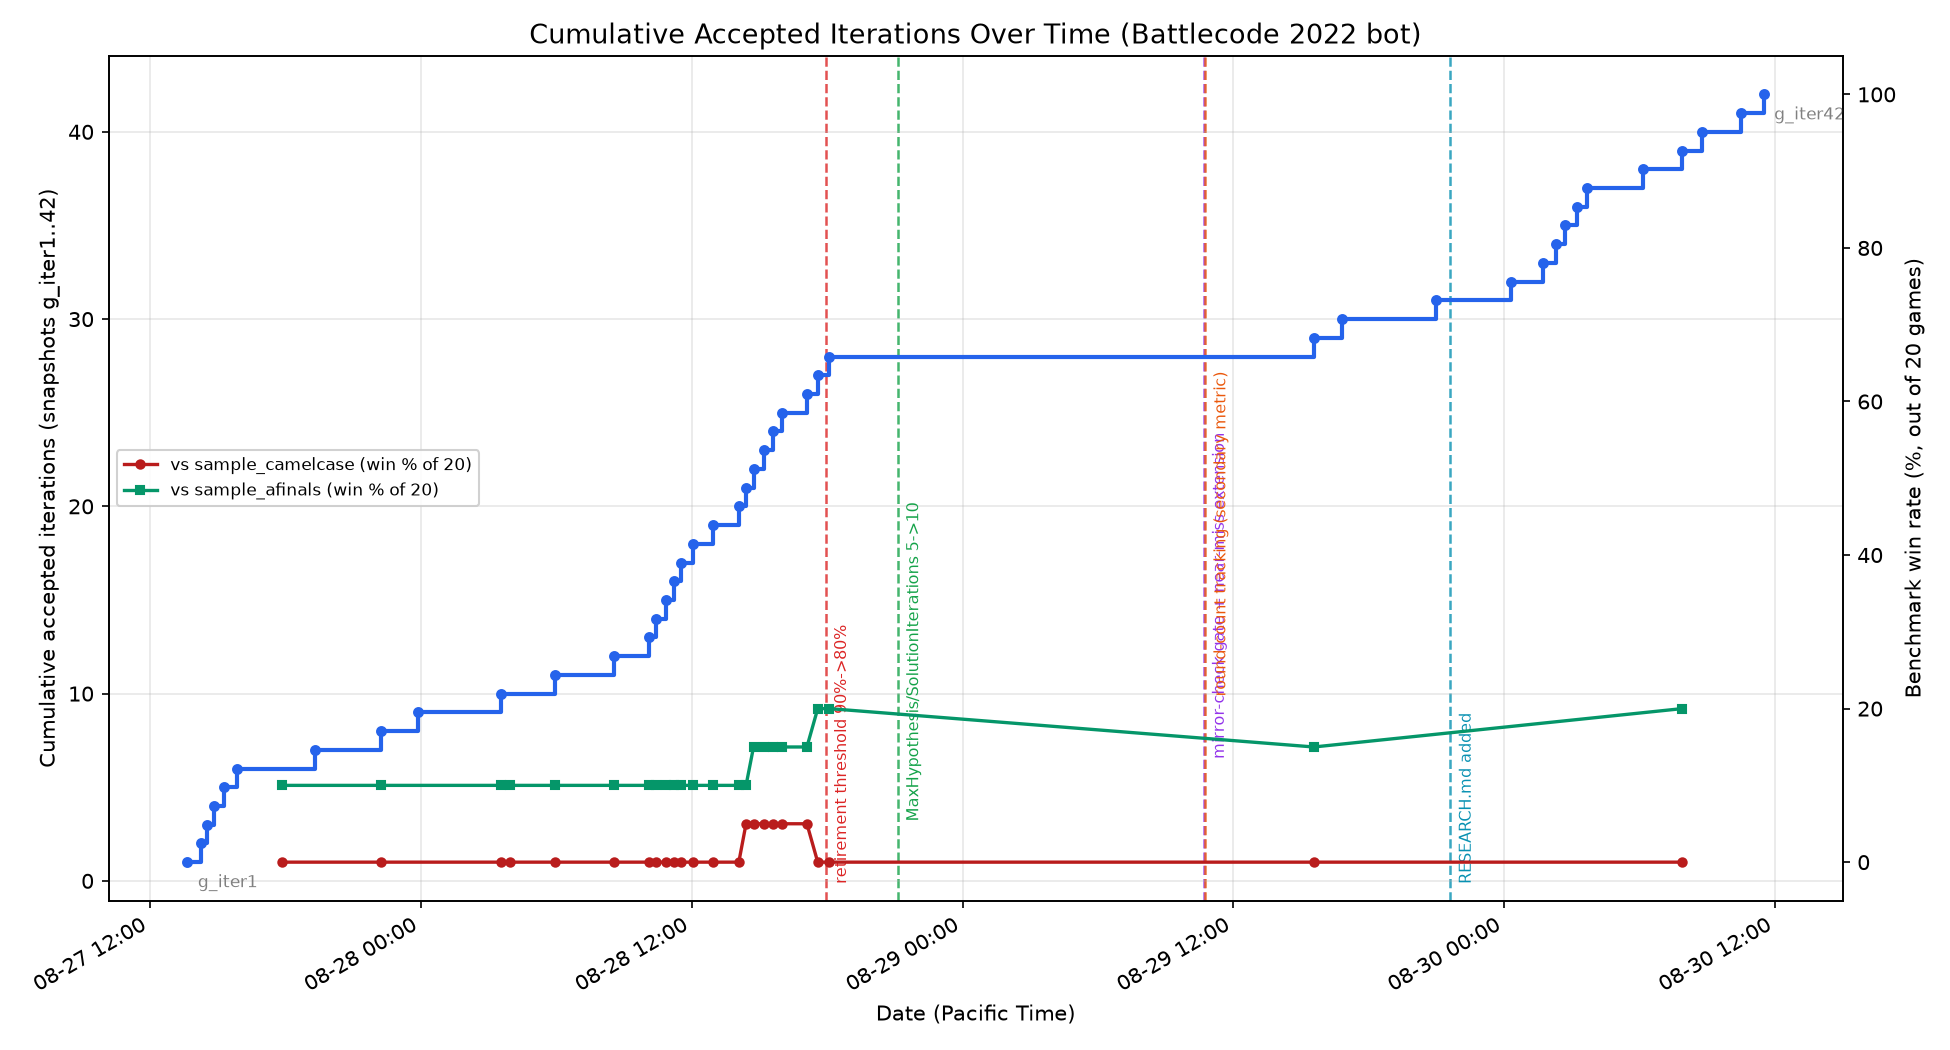
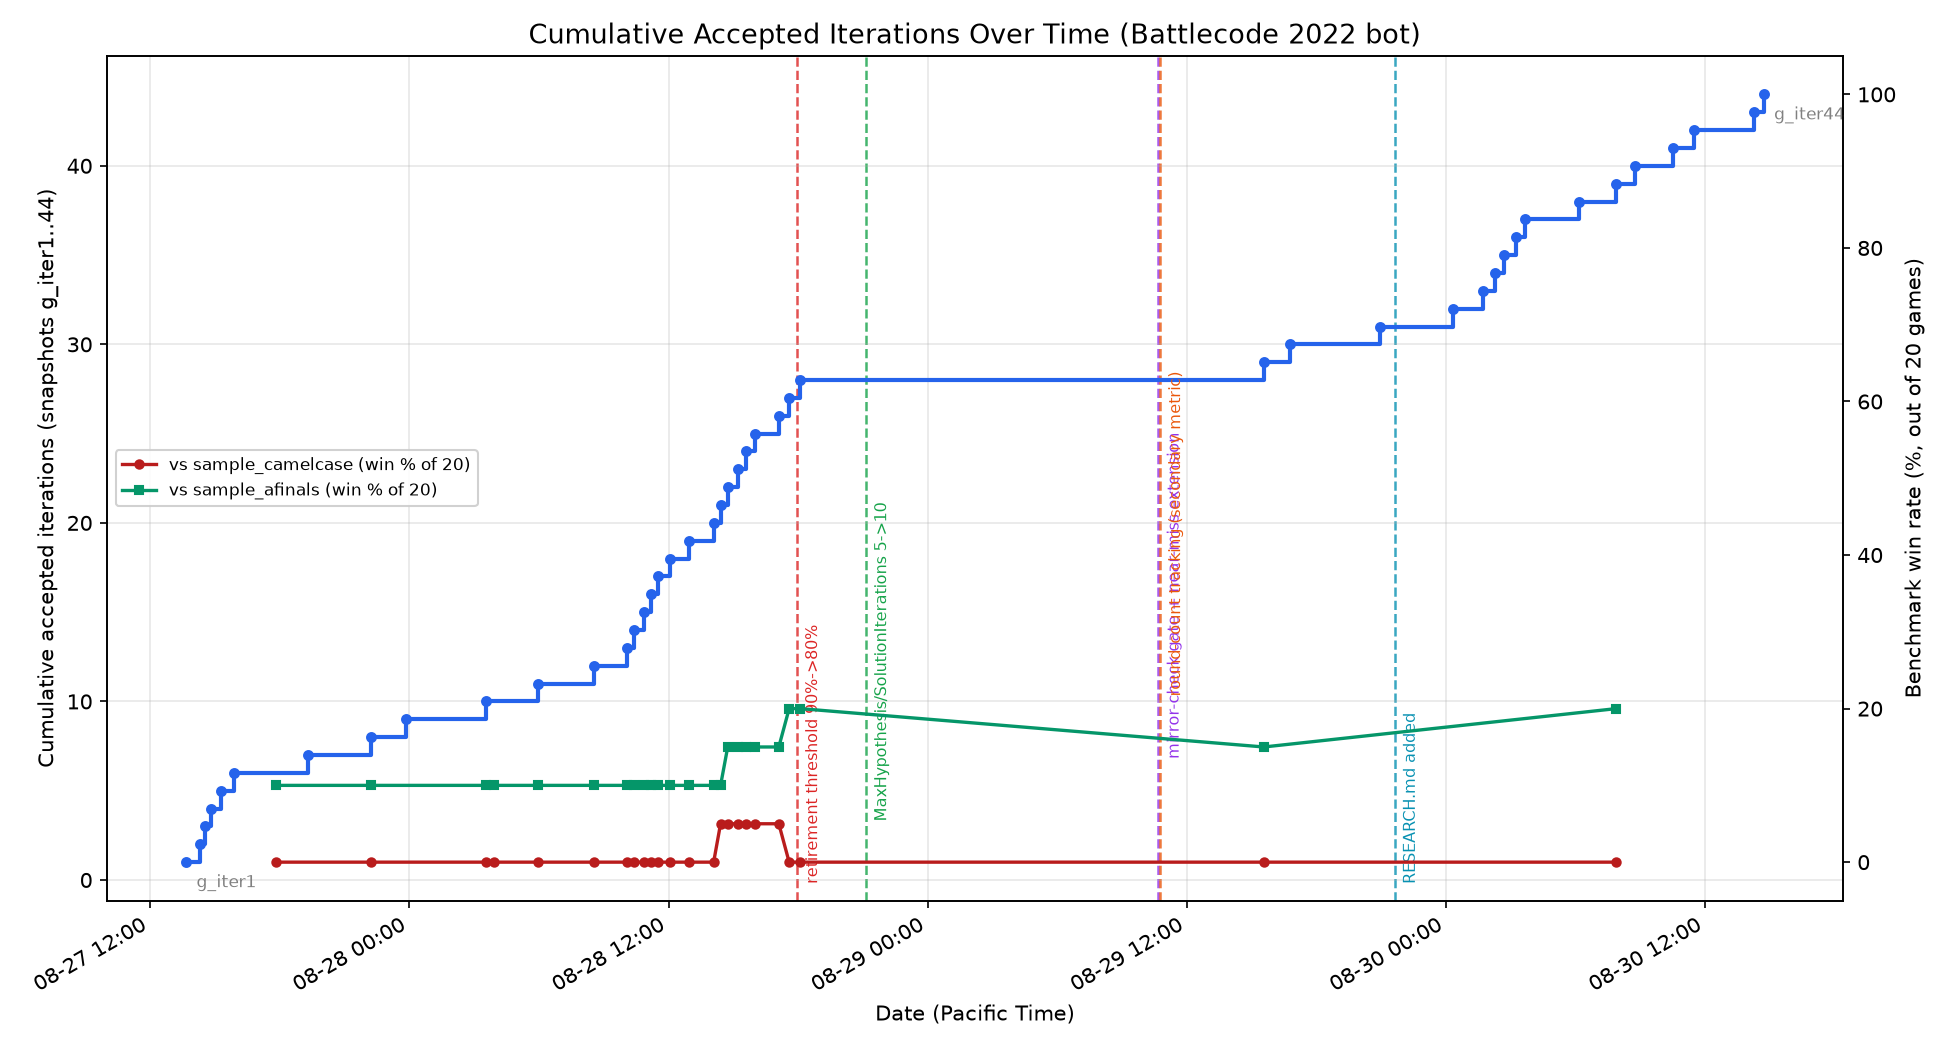
Refresh progress chart: 44 accepted iterations (g_iter44)

diff --git a/TRAINING_LOG.md b/TRAINING_LOG.md
@@ -7458,7 +7458,7 @@ Updated periodically, not every iteration.
 
 ![cumulative accepted iterations](progress/cumulative_iterations.png)
 
-As of `g_iter42`: 42 accepted iterations (of 94 attempted) spanning
+As of `g_iter44`: 44 accepted iterations (of 97 attempted) spanning
 2026-08-27 through 2026-08-30. `sample_camelcase` has never been
 beaten more than once in any 20-game tally across the whole project;
 `sample_afinals` has oscillated in a 10-20% band the entire time, with
@@ -7466,7 +7466,13 @@ no clear upward trend despite dozens of accepted peer-facing
 iterations -- a visual confirmation of this session's own conclusion
 that closing the benchmark gap needs targeted work (gold economy,
 combat AI), not incidental improvement from unrelated peer-focused
-fixes.
+fixes. Iterations 96-97 (Sage early-warning for Builders and Miners,
+`g_iter43`-`g_iter44`) are the first changes aimed directly at the
+`sample_afinals` bottleneck from a survival angle rather than supply
+tuning -- too recent to show up as a trend yet, but the traced Builder
+death cause did shift from "killed by a Sage" to "killed by 2
+Soldiers," a real qualitative change worth watching in the next
+benchmark tally.
 
 ### Diagnostic note — Iteration 92's Builder-flee limit confirmed one more layer deeper
 
